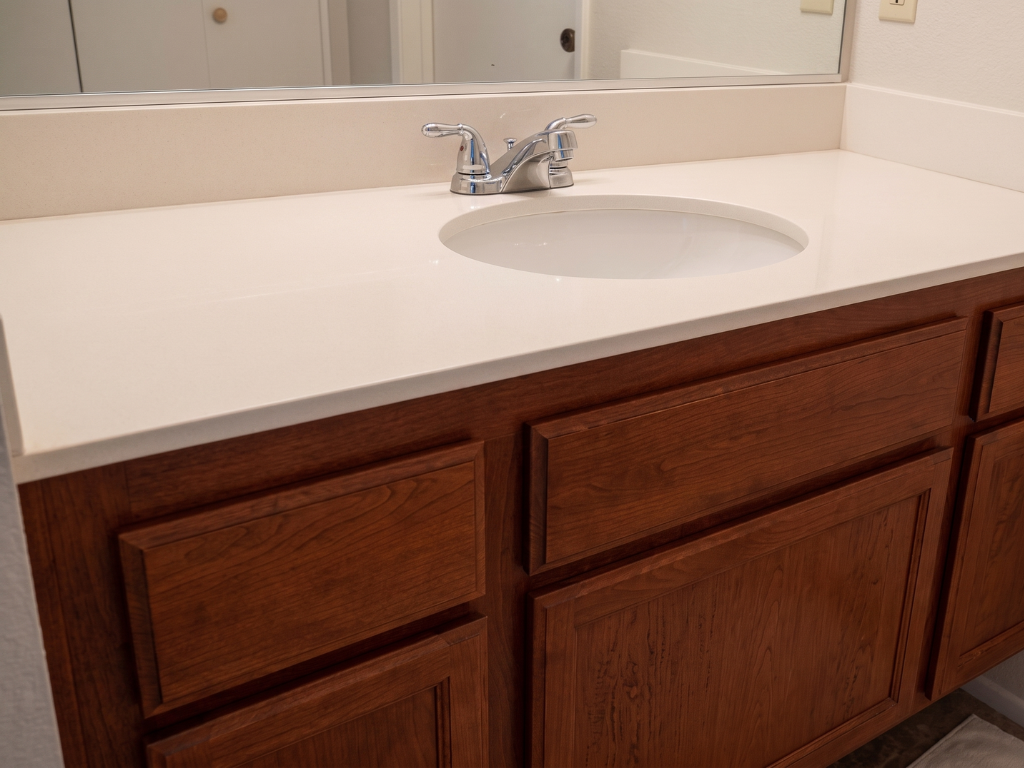
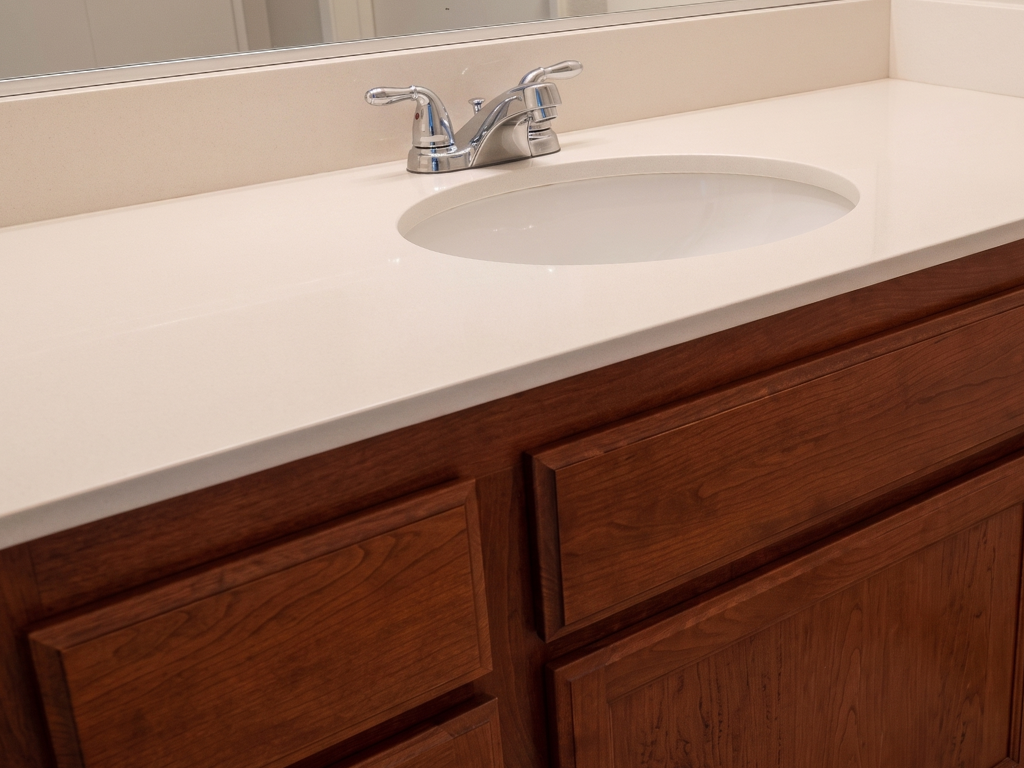
Replace vanity hero images + remove all prices from FAQ
Images:
- Replaced hero-before.png and hero-after.png with updated vanity
  photos from Images 11 zip

Price removal (site-wide policy: no prices on website as they vary):
- FAQ visible answer: removed "$470 inc GST" opener, replaced with
  "Every vanity is different" + "Send us photos" CTA language
- FAQ schema JSON-LD: same answer text updated
- Service schema: removed entire "offers" block (contained price: 470)

diff --git a/page-templates/page-vanity-refinishing-sydney.php b/page-templates/page-vanity-refinishing-sydney.php
@@ -16,14 +16,7 @@
         "aggregateRating": { "@type": "AggregateRating", "ratingValue": "4.9", "reviewCount": "23" }
     },
     "areaServed": { "@type": "City", "name": "Sydney" },
-    "serviceType": "Vanity Refinishing",
-    "offers": {
-        "@type": "Offer",
-        "priceCurrency": "AUD",
-        "price": "470",
-        "priceValidUntil": "2026-12-31",
-        "availability": "https://schema.org/InStock"
-    }
+    "serviceType": "Vanity Refinishing"
 }
 </script>
 
@@ -42,7 +35,7 @@
 {
     "@context": "https://schema.org", "@type": "FAQPage",
     "mainEntity": [
-        { "@type": "Question", "name": "How much does vanity refinishing cost in Sydney?", "acceptedAnswer": { "@type": "Answer", "text": "Vanity refinishing starts from $470 inc GST. The final price depends on the size of the vanity and what's included. Cabinet doors only, benchtop only, or the full unit. Stone-fleck finishes are a premium upgrade. We provide fixed-price quotes from photos." } },
+        { "@type": "Question", "name": "How much does vanity refinishing cost in Sydney?", "acceptedAnswer": { "@type": "Answer", "text": "Every vanity is different. The final price depends on the size of the vanity and what's included. Cabinet doors only, benchtop only, or the full unit. Stone-fleck finishes are a premium upgrade. Send us photos and we'll have a fixed-price quote back within hours. No hidden fees, no obligation." } },
         { "@type": "Question", "name": "What surfaces can you refinish?", "acceptedAnswer": { "@type": "Answer", "text": "We refinish timber, MDF, laminate, melamine, and previously painted vanity surfaces. This includes cabinet doors, benchtops, drawer fronts, and side panels. If it's structurally sound, we can refinish it." } },
         { "@type": "Question", "name": "What finishes are available?", "acceptedAnswer": { "@type": "Answer", "text": "We offer a range of finishes including solid colours (white, grey, navy, black, and custom colours), satin and gloss options, and our premium stone-fleck finish that mimics the look of granite or marble. We can colour-match to any sample you provide." } },
         { "@type": "Question", "name": "How long does the refinishing last?", "acceptedAnswer": { "@type": "Answer", "text": "Our vanity refinishing comes with a 3-year warranty. With normal use and care, a professional refinish will last 7-10+ years before needing attention. The key is proper prep and using professional-grade 2-pack coatings, not consumer paint." } }
@@ -501,7 +494,7 @@
         <h2 class="text-3xl font-extrabold text-primary tracking-tighter mb-4 text-center">Vanity Refinishing FAQs</h2>
         <p class="text-secondary text-center mb-10">Common questions about vanity refinishing in Sydney.</p>
         <div class="space-y-3">
-            <div class="faq-item border border-surface-container rounded-xl bg-white"><button class="w-full flex justify-between items-center p-5 text-left" onclick="toggleFaq(this)"><h3 class="font-bold text-primary text-sm pr-4">How much does vanity refinishing cost in Sydney?</h3><span class="material-symbols-outlined faq-chevron text-primary" aria-hidden="true">expand_more</span></button><div class="faq-answer px-5"><p class="text-sm text-secondary leading-relaxed pb-5">Vanity refinishing starts from $470 inc GST. The final price depends on the size of the vanity and what&rsquo;s included. Cabinet doors only, benchtop only, or the full unit. Stone-fleck finishes are a premium upgrade. We provide fixed-price quotes from photos.</p></div></div>
+            <div class="faq-item border border-surface-container rounded-xl bg-white"><button class="w-full flex justify-between items-center p-5 text-left" onclick="toggleFaq(this)"><h3 class="font-bold text-primary text-sm pr-4">How much does vanity refinishing cost in Sydney?</h3><span class="material-symbols-outlined faq-chevron text-primary" aria-hidden="true">expand_more</span></button><div class="faq-answer px-5"><p class="text-sm text-secondary leading-relaxed pb-5">Every vanity is different. The final price depends on the size of the vanity and what&rsquo;s included. Cabinet doors only, benchtop only, or the full unit. Stone-fleck finishes are a premium upgrade. Send us photos and we'll have a fixed-price quote back within hours. No hidden fees, no obligation.</p></div></div>
             <div class="faq-item border border-surface-container rounded-xl bg-white"><button class="w-full flex justify-between items-center p-5 text-left" onclick="toggleFaq(this)"><h3 class="font-bold text-primary text-sm pr-4">What surfaces can you refinish?</h3><span class="material-symbols-outlined faq-chevron text-primary" aria-hidden="true">expand_more</span></button><div class="faq-answer px-5"><p class="text-sm text-secondary leading-relaxed pb-5">We refinish timber, MDF, laminate, melamine, and previously painted vanity surfaces. This includes cabinet doors, benchtops, drawer fronts, and side panels. If it&rsquo;s structurally sound, we can refinish it.</p></div></div>
             <div class="faq-item border border-surface-container rounded-xl bg-white"><button class="w-full flex justify-between items-center p-5 text-left" onclick="toggleFaq(this)"><h3 class="font-bold text-primary text-sm pr-4">What finishes are available?</h3><span class="material-symbols-outlined faq-chevron text-primary" aria-hidden="true">expand_more</span></button><div class="faq-answer px-5"><p class="text-sm text-secondary leading-relaxed pb-5">We offer a range of finishes including solid colours (white, grey, navy, black, and custom colours), satin and gloss options, and our premium stone-fleck finish that mimics the look of granite or marble. We can colour-match to any sample you provide.</p></div></div>
             <div class="faq-item border border-surface-container rounded-xl bg-white"><button class="w-full flex justify-between items-center p-5 text-left" onclick="toggleFaq(this)"><h3 class="font-bold text-primary text-sm pr-4">How long does the refinishing last?</h3><span class="material-symbols-outlined faq-chevron text-primary" aria-hidden="true">expand_more</span></button><div class="faq-answer px-5"><p class="text-sm text-secondary leading-relaxed pb-5">Our vanity refinishing comes with a 3-year warranty. With normal use and care, a professional refinish will last 7&ndash;10+ years before needing attention. The key is proper prep and using professional-grade 2-pack coatings, not consumer paint.</p></div></div>
